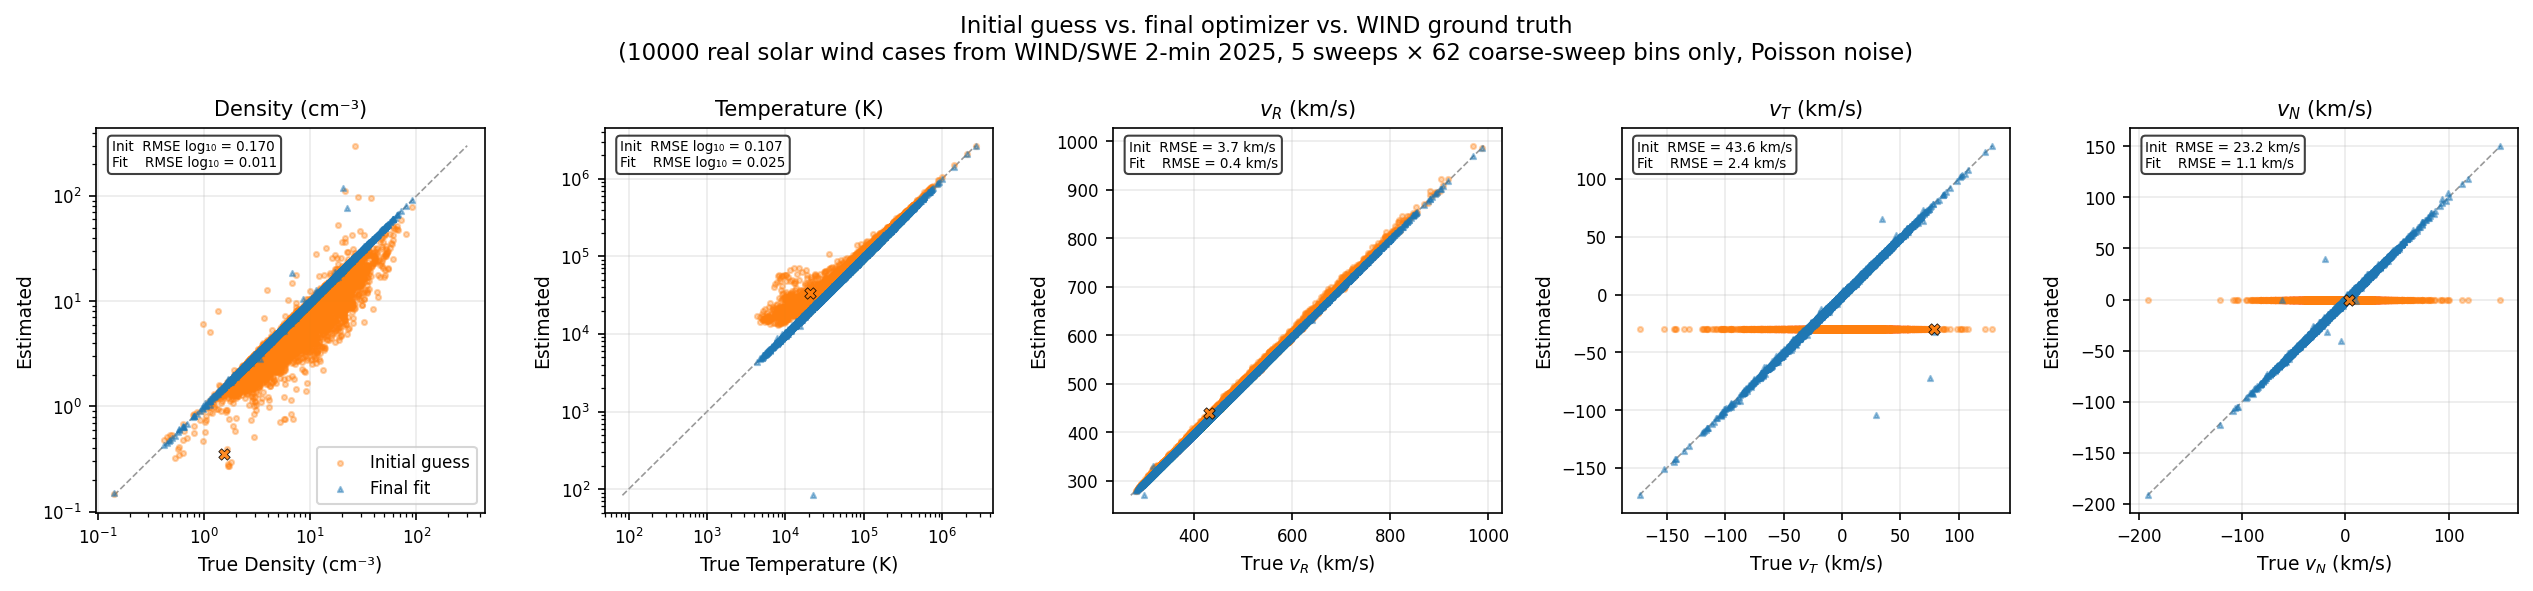
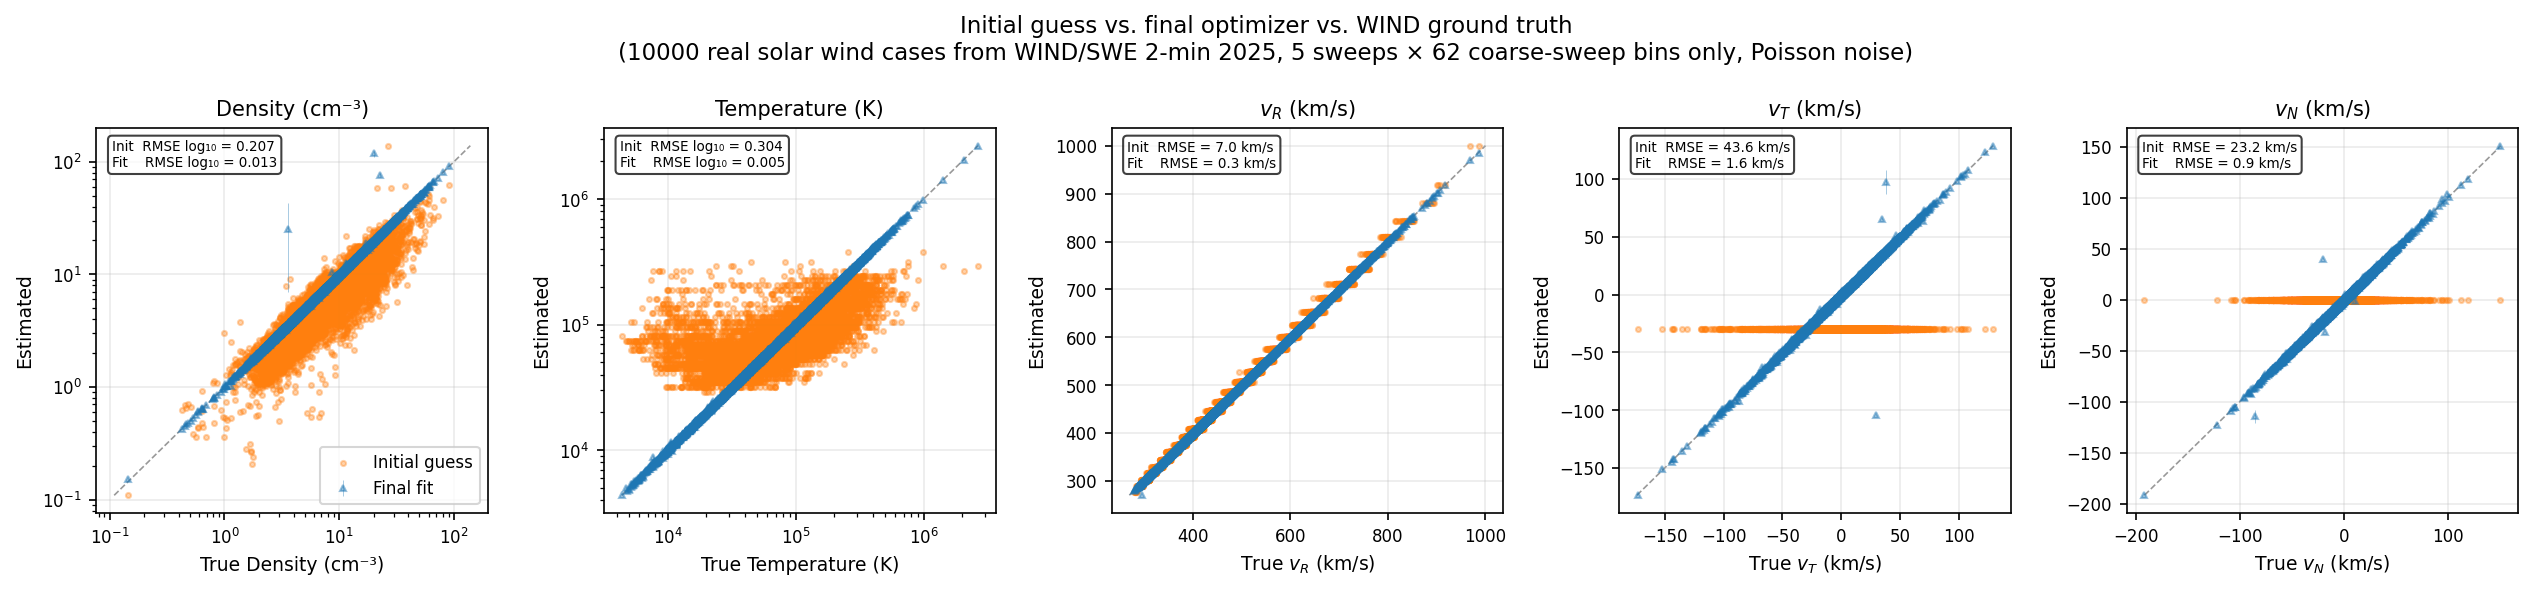
include zero counts

diff --git a/docs/swapi/figure_src/plot_fit_accuracy.py b/docs/swapi/figure_src/plot_fit_accuracy.py
@@ -33,6 +33,7 @@ import multiprocessing
 import numpy as np
 import pandas as pd
 import numba
+from tqdm.contrib.concurrent import process_map
 from uncertainties import UFloat
 import matplotlib
 
@@ -164,104 +165,108 @@ def _initialize_worker_state(ground_truth_params: tuple[np.ndarray, ...]) -> Non
 
 def _run_fits(n_samples: int) -> pd.DataFrame:
     n_workers = os.cpu_count() or 1
-    chunk_size = -(-n_samples // n_workers)  # ceiling division
-    chunks = [
-        range(start, min(start + chunk_size, n_samples))
-        for start in range(0, n_samples, chunk_size)
-    ]
+    if multiprocessing.get_start_method(allow_none=True) != "fork":
+        multiprocessing.set_start_method("fork", force=True)
 
     print(f"Running {n_samples} fits across {n_workers} processes...")
     t0 = time.perf_counter()
-    with multiprocessing.get_context("fork").Pool(n_workers) as pool:
-        chunks_of_rows = pool.map(_process_chunk, chunks)
+    rows = process_map(
+        _process_one, range(n_samples),
+        max_workers=n_workers, chunksize=10, desc="fits",
+    )
     print(f"  Fits done in {time.perf_counter() - t0:.1f}s.")
 
-    rows = [row for chunk in chunks_of_rows for row in chunk]
     data = pd.DataFrame(rows)
     print(f"Bad-fit flags: {data['bad_flag'].sum()}/{n_samples}")
     return data
 
 
-def _process_chunk(idx_range):
+def _process_one(i):
     ws = _worker_state
     radial_speeds, temperatures, densities, tangential_speeds, normal_speeds = ws.ground_truth_params
-    rows = []
-    for i in idx_range:
-        radial_speed = float(radial_speeds[i])
-        temperature = float(temperatures[i])
-        density = float(densities[i])
-        tangential_speed = float(tangential_speeds[i])
-        normal_speed = float(normal_speeds[i])
+    radial_speed = float(radial_speeds[i])
+    temperature = float(temperatures[i])
+    density = float(densities[i])
+    tangential_speed = float(tangential_speeds[i])
+    normal_speed = float(normal_speeds[i])
 
-        truth_params = SolarWindParams(
-            density=density,
-            bulk_velocity_rtn=np.array([radial_speed, tangential_speed, normal_speed]),
-            temperature=temperature,
+    truth_params = SolarWindParams(
+        density=density,
+        bulk_velocity_rtn=np.array([radial_speed, tangential_speed, normal_speed]),
+        temperature=temperature,
+        mass_kg=PROTON_MASS_KG,
+    )
+    count_rates = model_solar_wind_coincidence_rates(truth_params, ws.base_ctx)
+    count_rates = apply_deadtime_correction_array(count_rates)
+    count_rates = (
+        np.random.default_rng(i).poisson(np.maximum(count_rates * 0.145, 0.0)).astype(float)
+        / 0.145
+    )
+
+    fit_ctx = build_solar_wind_fit_context(
+        count_rate=count_rates,
+        esa_voltage=ws.all_esa_voltages,
+        swapi_response=ws.swapi_response,
+        central_effective_area_scale=1.0,
+        rotation_matrices=ws.per_bin_rotation_matrices,
+        mass_kg=PROTON_MASS_KG,
+        mass_per_charge_m_p_per_e=PROTON_MASS_PER_CHARGE_M_P_PER_E,
+    )
+    try:
+        initial_guess = calculate_initial_guess(fit_ctx)
+    except Exception:
+        initial_guess = SolarWindParams(
+            density=float("nan"),
+            bulk_velocity_rtn=np.array([float("nan")] * 3),
+            temperature=float("nan"),
             mass_kg=PROTON_MASS_KG,
         )
-        count_rates = model_solar_wind_coincidence_rates(truth_params, ws.base_ctx)
-        count_rates = apply_deadtime_correction_array(count_rates)
-        count_rates = (
-            np.random.default_rng(i).poisson(np.maximum(count_rates * 0.145, 0.0)).astype(float)
-            / 0.145
+    try:
+        result = fit_solar_wind_proton_moments(fit_ctx)
+    except Exception as e:
+        print(f"  case {i}: fit failed ({type(e).__name__}: {e}); flagging bad")
+        from imap_l3_processing.swapi.l3a.science.calculate_proton_solar_wind_moments import (
+            ProtonSolarWindFitResult,
+        )
+        from uncertainties import ufloat
+        nan_uf = ufloat(float("nan"), float("nan"))
+        result = ProtonSolarWindFitResult(
+            density=nan_uf, temperature=nan_uf,
+            bulk_velocity_rtn=(nan_uf, nan_uf, nan_uf),
+            bad_fit_flag=1,
         )
 
-        fit_ctx = build_solar_wind_fit_context(
-            count_rate=count_rates,
-            esa_voltage=ws.all_esa_voltages,
-            swapi_response=ws.swapi_response,
-            central_effective_area_scale=1.0,
-            rotation_matrices=ws.per_bin_rotation_matrices,
-            mass_kg=PROTON_MASS_KG,
-            mass_per_charge_m_p_per_e=PROTON_MASS_PER_CHARGE_M_P_PER_E,
-        )
-        try:
-            initial_guess = calculate_initial_guess(fit_ctx)
-        except Exception:
-            initial_guess = SolarWindParams(
-                density=float("nan"),
-                bulk_velocity_rtn=np.array([float("nan")] * 3),
-                temperature=float("nan"),
-                mass_kg=PROTON_MASS_KG,
-            )
-        try:
-            result = fit_solar_wind_proton_moments(fit_ctx)
-        except Exception as e:
-            print(f"  case {i}: fit failed ({type(e).__name__}: {e}); flagging bad")
-            from imap_l3_processing.swapi.l3a.science.calculate_proton_solar_wind_moments import (
-                ProtonSolarWindFitResult,
-            )
-            from uncertainties import ufloat
-            nan_uf = ufloat(float("nan"), float("nan"))
-            result = ProtonSolarWindFitResult(
-                density=nan_uf, temperature=nan_uf,
-                bulk_velocity_rtn=(nan_uf, nan_uf, nan_uf),
-                bad_fit_flag=1,
-            )
-
-        rows.append({
-            "true_density": density,
-            "true_temperature": temperature,
-            "true_radial_speed": radial_speed,
-            "true_tangential_speed": tangential_speed,
-            "true_normal_speed": normal_speed,
-            "init_density": initial_guess.density,
-            "init_temperature": initial_guess.temperature,
-            "init_radial_speed": float(initial_guess.bulk_velocity_rtn[0]),
-            "init_tangential_speed": float(initial_guess.bulk_velocity_rtn[1]),
-            "init_normal_speed": float(initial_guess.bulk_velocity_rtn[2]),
-            "fit_density": _nominal(result.density),
-            "fit_temperature": _nominal(result.temperature),
-            "fit_radial_speed": _nominal(result.bulk_velocity_rtn[0]),
-            "fit_tangential_speed": _nominal(result.bulk_velocity_rtn[1]),
-            "fit_normal_speed": _nominal(result.bulk_velocity_rtn[2]),
-            "bad_flag": bool(result.bad_fit_flag),
-        })
-    return rows
+    return {
+        "true_density": density,
+        "true_temperature": temperature,
+        "true_radial_speed": radial_speed,
+        "true_tangential_speed": tangential_speed,
+        "true_normal_speed": normal_speed,
+        "init_density": initial_guess.density,
+        "init_temperature": initial_guess.temperature,
+        "init_radial_speed": float(initial_guess.bulk_velocity_rtn[0]),
+        "init_tangential_speed": float(initial_guess.bulk_velocity_rtn[1]),
+        "init_normal_speed": float(initial_guess.bulk_velocity_rtn[2]),
+        "fit_density": _nominal(result.density),
+        "fit_temperature": _nominal(result.temperature),
+        "fit_radial_speed": _nominal(result.bulk_velocity_rtn[0]),
+        "fit_tangential_speed": _nominal(result.bulk_velocity_rtn[1]),
+        "fit_normal_speed": _nominal(result.bulk_velocity_rtn[2]),
+        "fit_density_sigma": _sigma(result.density),
+        "fit_temperature_sigma": _sigma(result.temperature),
+        "fit_radial_speed_sigma": _sigma(result.bulk_velocity_rtn[0]),
+        "fit_tangential_speed_sigma": _sigma(result.bulk_velocity_rtn[1]),
+        "fit_normal_speed_sigma": _sigma(result.bulk_velocity_rtn[2]),
+        "bad_flag": bool(result.bad_fit_flag),
+    }
 
 
 def _nominal(x):
     return x.nominal_value if isinstance(x, UFloat) else x
+
+
+def _sigma(x):
+    return x.std_dev if isinstance(x, UFloat) else float("nan")
 
 
 def _plot_results(data: pd.DataFrame) -> None:
@@ -270,11 +275,11 @@ def _plot_results(data: pd.DataFrame) -> None:
     n_bad = data["bad_flag"].sum()
 
     plot_columns = [
-        ("Density (cm⁻³)", "true_density", "init_density", "fit_density", "log"),
-        ("Temperature (K)", "true_temperature", "init_temperature", "fit_temperature", "log"),
-        ("$v_R$ (km/s)", "true_radial_speed", "init_radial_speed", "fit_radial_speed", "linear"),
-        ("$v_T$ (km/s)", "true_tangential_speed", "init_tangential_speed", "fit_tangential_speed", "linear"),
-        ("$v_N$ (km/s)", "true_normal_speed", "init_normal_speed", "fit_normal_speed", "linear"),
+        ("Density (cm⁻³)", "true_density", "init_density", "fit_density", "fit_density_sigma", "log"),
+        ("Temperature (K)", "true_temperature", "init_temperature", "fit_temperature", "fit_temperature_sigma", "log"),
+        ("$v_R$ (km/s)", "true_radial_speed", "init_radial_speed", "fit_radial_speed", "fit_radial_speed_sigma", "linear"),
+        ("$v_T$ (km/s)", "true_tangential_speed", "init_tangential_speed", "fit_tangential_speed", "fit_tangential_speed_sigma", "linear"),
+        ("$v_N$ (km/s)", "true_normal_speed", "init_normal_speed", "fit_normal_speed", "fit_normal_speed_sigma", "linear"),
     ]
 
     fig, axes = plt.subplots(1, 5, figsize=(17, 4))
@@ -288,10 +293,11 @@ def _plot_results(data: pd.DataFrame) -> None:
     color_initial_guess = "tab:orange"
     color_final_fit = "tab:blue"
 
-    for ax, (label, true_key, init_key, fit_key, scale) in zip(axes, plot_columns):
+    for ax, (label, true_key, init_key, fit_key, fit_sigma_key, scale) in zip(axes, plot_columns):
         truth = data[true_key]
         init = data[init_key]
         fit = data[fit_key]
+        fit_sigma = data[fit_sigma_key]
 
         lo = np.nanmin(np.concatenate([truth, init, fit]))
         hi = np.nanmax(np.concatenate([truth, init, fit]))
@@ -302,9 +308,11 @@ def _plot_results(data: pd.DataFrame) -> None:
             truth[good], init[good],
             s=6, alpha=0.35, color=color_initial_guess, marker="o", zorder=2, label="Initial guess",
         )
-        ax.scatter(
-            truth[good], fit[good],
-            s=6, alpha=0.45, color=color_final_fit, marker="^", zorder=3, label="Final fit",
+        ax.errorbar(
+            truth[good], fit[good], yerr=fit_sigma[good],
+            fmt="^", markersize=2.5, color=color_final_fit,
+            ecolor=color_final_fit, elinewidth=0.4, capsize=0,
+            alpha=0.45, zorder=3, label="Final fit",
         )
 
         if n_bad:

diff --git a/imap_l3_processing/swapi/l3a/science/solar_wind_forward_model.py b/imap_l3_processing/swapi/l3a/science/solar_wind_forward_model.py
@@ -141,11 +141,31 @@ def _compute_angles(bulk_velocity_rtn: ndarray, rotation_matrix: ndarray):
     return phi, theta
 
 
+@numba.njit(nogil=True, inline="always")
+def _cone_outside_passband(
+    response_grid: ResponseGrid, sw_params: _LocalSWParams
+) -> bool:
+    grid = response_grid.passband_grid
+    central_speed = response_grid.central_speed
+    speed_std = _speed_std(sw_params)
+    v_lo = sw_params.bulk_speed - SPEED_HALF_WIDTH_VTH * speed_std
+    v_hi = sw_params.bulk_speed + SPEED_HALF_WIDTH_VTH * speed_std
+    sg_rmin = _min_passband_speed_ratio_at_elevation(grid, True, 0.0)
+    oa_rmin = _min_passband_speed_ratio_at_elevation(grid, False, 0.0)
+    sg_rmax = _max_passband_speed_ratio_at_elevation(grid, True, 0.0)
+    oa_rmax = _max_passband_speed_ratio_at_elevation(grid, False, 0.0)
+    r_min = sg_rmin if sg_rmin < oa_rmin else oa_rmin
+    r_max = sg_rmax if sg_rmax > oa_rmax else oa_rmax
+    return v_hi < r_min * central_speed or v_lo > r_max * central_speed
+
+
 @numba.njit(fastmath=True, nogil=True)
 def calculate_integral(
     response_grid: ResponseGrid,
     sw_params: _LocalSWParams,
 ):
+    if _cone_outside_passband(response_grid, sw_params):
+        return 0.0
     sg_rate = _integrate_sunglasses_region(response_grid, sw_params)
     vv_rate = _integrate_vanes_vignetting_regions(response_grid, sw_params)
     oa_rate = _integrate_open_aperture_regions(response_grid, sw_params, sg_rate)

diff --git a/imap_l3_processing/swapi/l3a/science/solar_wind_fit_context.py b/imap_l3_processing/swapi/l3a/science/solar_wind_fit_context.py
@@ -34,7 +34,7 @@ def build_solar_wind_fit_context(
     mass_kg: float,
     mass_per_charge_m_p_per_e: float,
 ) -> SolarWindFitContext:
-    keep = (esa_voltage > 0) & np.isfinite(esa_voltage) & (count_rate > 0)
+    keep = (esa_voltage > 0) & np.isfinite(esa_voltage)
     if not np.all(keep):
         esa_voltage = esa_voltage[keep]
         count_rate = count_rate[keep]

diff --git a/tests/integration/test_swapi_processor_integration.py b/tests/integration/test_swapi_processor_integration.py
@@ -173,7 +173,7 @@ class SwapiProcessorIntegration(unittest.TestCase):
         )
         np.testing.assert_allclose(
             temperatures[chk],
-            [54235.1, 66166.0, 205795.8],
+            [55181.3, 66005.4, 206159.0],
             rtol=0.01,
             err_msg="proton_sw_temperature regression",
         )
